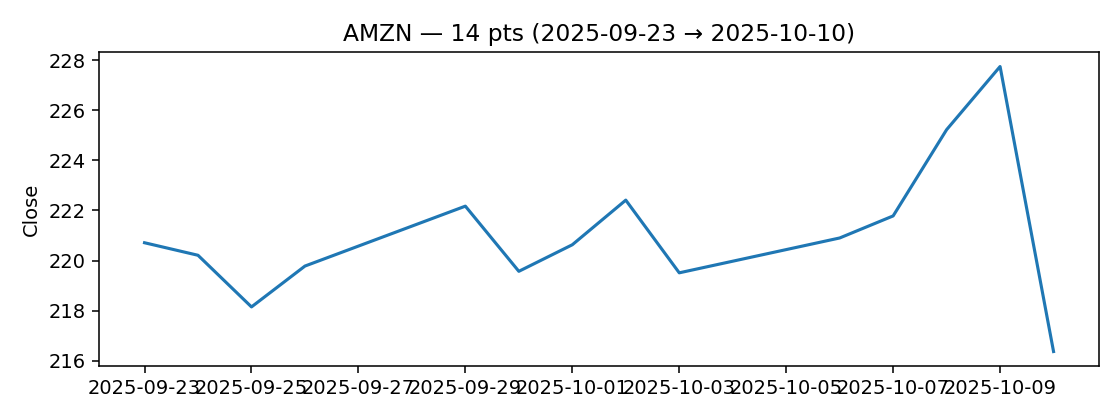
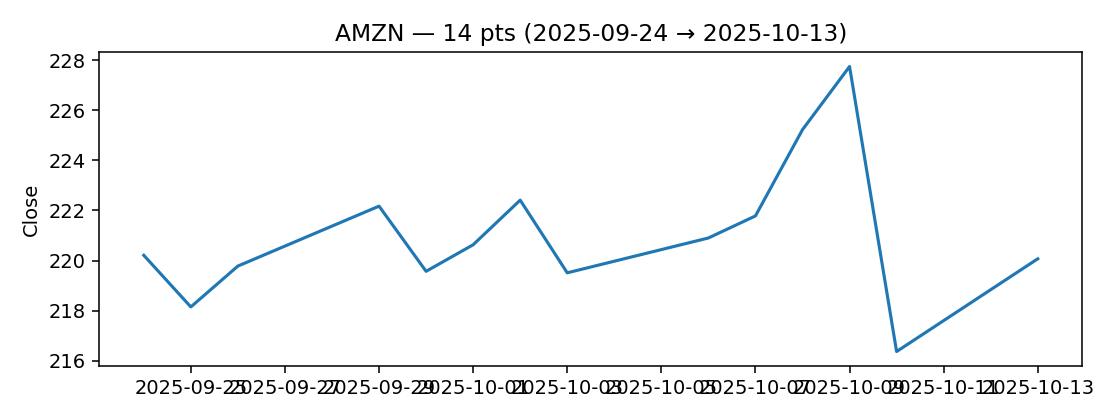
chore: update daily report 2025-10-14 08:31

diff --git a/docs/daily_report.html b/docs/daily_report.html
@@ -108,7 +108,7 @@
   <header>
     <div>
       <h1>Daily Study & News Companion</h1>
-      <div class="sub">2025-10-13 08:09 · TZ: CST</div>
+      <div class="sub">2025-10-14 08:15 · TZ: CST</div>
     </div>
     <button class="btn" id="themeBtn">🌓 Tema</button>
   </header>
@@ -150,11 +150,11 @@
           </div>
           <div class="mkt-body">
             <div class="metrics-row">
-          <div class="kv"><span>Last</span><b>216.37</b></div>
-          <div class="kv"><span>d/d</span><b class="down">-1.97%</b></div>
+          <div class="kv"><span>Last</span><b>220.07</b></div>
+          <div class="kv"><span>d/d</span><b class="down">-0.06%</b></div>
           <div class="kv"><span>Mín</span><b>216.37</b></div>
           <div class="kv"><span>Máx</span><b>227.74</b></div>
-          <div class="kv"><span>σ</span><b>2.72</b></div>
+          <div class="kv"><span>σ</span><b>2.73</b></div>
         </div>
             <div class="chart"><img src="charts/AMZN_close.png" alt="AMZN chart" loading="lazy"/></div>
           </div>
@@ -167,11 +167,11 @@
           </div>
           <div class="mkt-body">
             <div class="metrics-row">
-          <div class="kv"><span>Last</span><b>510.96</b></div>
-          <div class="kv"><span>d/d</span><b class="up">0.34%</b></div>
+          <div class="kv"><span>Last</span><b>514.05</b></div>
+          <div class="kv"><span>d/d</span><b class="up">0.76%</b></div>
           <div class="kv"><span>Mín</span><b>507.03</b></div>
           <div class="kv"><span>Máx</span><b>528.57</b></div>
-          <div class="kv"><span>σ</span><b>6.33</b></div>
+          <div class="kv"><span>σ</span><b>6.04</b></div>
         </div>
             <div class="chart"><img src="charts/MSFT_close.png" alt="MSFT chart" loading="lazy"/></div>
           </div>
@@ -184,11 +184,11 @@
           </div>
           <div class="mkt-body">
             <div class="metrics-row">
-          <div class="kv"><span>Last</span><b>183.16</b></div>
-          <div class="kv"><span>d/d</span><b class="up">2.65%</b></div>
+          <div class="kv"><span>Last</span><b>188.32</b></div>
+          <div class="kv"><span>d/d</span><b class="up">6.41%</b></div>
           <div class="kv"><span>Mín</span><b>176.97</b></div>
           <div class="kv"><span>Máx</span><b>192.57</b></div>
-          <div class="kv"><span>σ</span><b>4.75</b></div>
+          <div class="kv"><span>σ</span><b>4.57</b></div>
         </div>
             <div class="chart"><img src="charts/NVDA_close.png" alt="NVDA chart" loading="lazy"/></div>
           </div>
@@ -201,11 +201,11 @@
           </div>
           <div class="mkt-body">
             <div class="metrics-row">
-          <div class="kv"><span>Last</span><b>413.49</b></div>
-          <div class="kv"><span>d/d</span><b class="down">-2.90%</b></div>
+          <div class="kv"><span>Last</span><b>435.90</b></div>
+          <div class="kv"><span>d/d</span><b class="down">-1.56%</b></div>
           <div class="kv"><span>Mín</span><b>413.49</b></div>
           <div class="kv"><span>Máx</span><b>459.46</b></div>
-          <div class="kv"><span>σ</span><b>11.48</b></div>
+          <div class="kv"><span>σ</span><b>11.06</b></div>
         </div>
             <div class="chart"><img src="charts/TSLA_close.png" alt="TSLA chart" loading="lazy"/></div>
           </div>
@@ -218,8 +218,8 @@
           </div>
           <div class="mkt-body">
             <div class="metrics-row">
-          <div class="kv"><span>Last</span><b>653.02</b></div>
-          <div class="kv"><span>d/d</span><b class="down">-1.54%</b></div>
+          <div class="kv"><span>Last</span><b>663.04</b></div>
+          <div class="kv"><span>d/d</span><b class="up">0.29%</b></div>
           <div class="kv"><span>Mín</span><b>653.02</b></div>
           <div class="kv"><span>Máx</span><b>673.11</b></div>
           <div class="kv"><span>σ</span><b>5.54</b></div>
@@ -250,38 +250,38 @@
             <ul class="news-list">
               <li class="news-item" data-topic="AI">
                 <span class="dot"></span>
-                <a href="https://www.ft.com/content/bdaf9f30-f0a3-4bbc-aca7-86e609335e8a" target="_blank" rel="noreferrer">OpenAI extends chip spending spree with multibillion-dollar Broadcom deal</a>
-                <div class="meta">2025-10-13 13:47 · <span class="src">www.ft.com</span></div>
+                <a href="https://www.bloomberg.com/news/articles/2025-10-14/walmart-partners-with-openai-to-offer-shopping-on-chatgpt" target="_blank" rel="noreferrer">Walmart Partners With OpenAI to Offer Shopping on ChatGPT</a>
+                <div class="meta">2025-10-14 13:15 · <span class="src">Jaewon Kang</span></div>
               </li>
             
               <li class="news-item" data-topic="AI">
                 <span class="dot"></span>
-                <a href="https://www.bloomberg.com/news/videos/2025-10-13/open-ai-broadcom-sign-multiyear-10-gigawatt-chip-pact-video" target="_blank" rel="noreferrer">Open AI, Broadcom Sign Multiyear, 10-Gigawatt Chip Pact</a>
-                <div class="meta">2025-10-13 13:30 · <span class="src">www.bloomberg.com</span></div>
+                <a href="https://www.bloomberg.com/news/articles/2025-10-14/terawulf-floats-3-2-billion-of-junk-bonds-for-ny-data-center" target="_blank" rel="noreferrer">TeraWulf Floats $3.2 Billion of Junk Bonds for New York Data Center</a>
+                <div class="meta">2025-10-14 13:13 · <span class="src">Gowri Gurumurthy, Aaron Weinman</span></div>
               </li>
             
               <li class="news-item" data-topic="AI">
                 <span class="dot"></span>
-                <a href="https://www.bloomberg.com/news/articles/2025-10-13/openai-broadcom-sign-10-gigawatt-pact-for-chips-networking" target="_blank" rel="noreferrer">OpenAI, Broadcom Sign 10-Gigawatt Pact for Chips, Networking</a>
-                <div class="meta">2025-10-13 13:00 · <span class="src">Dina Bass, Shirin Ghaffary</span></div>
+                <a href="https://www.bloomberg.com/news/articles/2025-10-14/asml-s-best-month-in-two-decades-puts-earnings-in-spotlight" target="_blank" rel="noreferrer">ASML’s Best Month in Two Decades Puts Earnings in Spotlight</a>
+                <div class="meta">2025-10-14 09:11 · <span class="src">Henry Ren, Sarah Jacob</span></div>
               </li>
             
               <li class="news-item" data-topic="AI">
                 <span class="dot"></span>
-                <a href="https://www.bloomberg.com/news/articles/2025-10-13/micron-s-newly-converted-bull-sees-50-gain-on-memory-supercycle" target="_blank" rel="noreferrer">Micron’s Newly-Converted Bull Sees 50% Gain on Memory Supercycle</a>
-                <div class="meta">2025-10-13 12:52 · <span class="src">Ryan Vlastelica</span></div>
+                <a href="https://www.bloomberg.com/news/articles/2025-10-14/publicis-raises-growth-outlook-on-strong-ads-and-ai-demand" target="_blank" rel="noreferrer">Publicis Raises Growth Outlook on Strong Ads and AI Demand</a>
+                <div class="meta">2025-10-14 05:30 · <span class="src">Benoit Berthelot</span></div>
               </li>
             
               <li class="news-item" data-topic="AI">
                 <span class="dot"></span>
-                <a href="https://www.bloomberg.com/news/articles/2025-10-13/bloom-energy-shares-soar-on-5-billion-brookfield-ai-partnership" target="_blank" rel="noreferrer">Brookfield’s $5 Billion Deal Spurs Rally in Bloom Energy Shares</a>
-                <div class="meta">2025-10-13 12:14 · <span class="src">Josh Saul</span></div>
+                <a href="https://www.bloomberg.com/news/articles/2025-10-14/uk-lacks-growth-funding-for-critical-sectors-like-quantum-ai" target="_blank" rel="noreferrer">UK Lacks Growth Funding for Critical Sectors Like Quantum, AI</a>
+                <div class="meta">2025-10-14 05:00 · <span class="src">Rose Henderson</span></div>
               </li>
             
               <li class="news-item" data-topic="AI">
                 <span class="dot"></span>
-                <a href="https://www.bloomberg.com/news/articles/2025-10-12/us-futures-jump-as-traders-gauge-china-trade-spat-markets-wrap" target="_blank" rel="noreferrer">Stocks Climb on Trade Hopes and Broadcom’s AI Deal: Markets Wrap</a>
-                <div class="meta">2025-10-12 22:38 · <span class="src">Rita Nazareth</span></div>
+                <a href="https://www.bloomberg.com/news/articles/2025-10-14/europe-aims-for-ai-independence-to-avoid-reliance-on-us-and-china" target="_blank" rel="noreferrer">Europe Fights for AI Independence to Avoid Becoming Tech ‘Colony’</a>
+                <div class="meta">2025-10-14 04:01 · <span class="src">Dina Bass, Rachel Metz, Mark Bergen</span></div>
               </li>
             </ul>
           </div>
@@ -291,38 +291,38 @@
             <ul class="news-list">
               <li class="news-item" data-topic="Fintech">
                 <span class="dot"></span>
-                <a href="https://www.bloomberg.com/news/articles/2025-10-13/nordic-lenders-handelsbanken-and-danske-launch-defense-funds" target="_blank" rel="noreferrer">Nordic Lenders Handelsbanken and Danske Launch Defense Funds</a>
-                <div class="meta">2025-10-13 13:05 · <span class="src">Evelina Youcefi</span></div>
+                <a href="https://www.bloomberg.com/news/videos/2025-10-14/breaking-down-bank-earnings-video" target="_blank" rel="noreferrer">Breaking Down Bank Earnings</a>
+                <div class="meta">2025-10-14 13:33 · <span class="src">www.bloomberg.com</span></div>
               </li>
             
               <li class="news-item" data-topic="Fintech">
                 <span class="dot"></span>
-                <a href="https://www.bloomberg.com/news/videos/2025-10-13/bloomberg-brief-10-13-2025-video" target="_blank" rel="noreferrer">Stocks Bounce Back as Trump Softens China Trade Stance; Trump in Israel | Bloomberg Brief 10/13/2025</a>
-                <div class="meta">2025-10-13 11:33 · <span class="src">www.bloomberg.com</span></div>
+                <a href="https://www.bloomberg.com/news/articles/2025-10-14/goldman-kicks-off-post-earnings-bond-sales-with-five-part-deal" target="_blank" rel="noreferrer">Goldman Kicks Off Post-Earnings Bond Sales with Five-Part Deal</a>
+                <div class="meta">2025-10-14 12:53 · <span class="src">Caleb Mutua</span></div>
               </li>
             
               <li class="news-item" data-topic="Fintech">
                 <span class="dot"></span>
-                <a href="https://www.bloomberg.com/news/articles/2025-10-13/india-inflation-below-rbi-s-target-again-boosting-rate-cut-bets" target="_blank" rel="noreferrer">India Inflation Below RBI Target Again, Boosts Rate Cut Bets</a>
-                <div class="meta">2025-10-13 10:36 · <span class="src">Anup Roy</span></div>
+                <a href="https://www.bloomberg.com/news/articles/2025-10-14/prices-on-wiped-out-credit-suisse-at1s-rise-after-court-ruling" target="_blank" rel="noreferrer">Prices on Wiped Out Credit Suisse AT1s Rise After Court Ruling</a>
+                <div class="meta">2025-10-14 12:13 · <span class="src">Tasos Vossos, Esteban Duarte</span></div>
               </li>
             
               <li class="news-item" data-topic="Fintech">
                 <span class="dot"></span>
-                <a href="https://www.bloomberg.com/news/articles/2025-10-13/china-renaissance-seeks-600-million-for-bnb-crypto-treasury" target="_blank" rel="noreferrer">China Renaissance Seeks $600 Million for BNB Crypto Treasury</a>
-                <div class="meta">2025-10-13 10:06 · <span class="src">Haze Fan, Muyao Shen, Suvashree Ghosh</span></div>
+                <a href="https://www.bloomberg.com/news/articles/2025-10-14/credit-suisse-at1-writedown-revoked-in-partial-win-for-investors" target="_blank" rel="noreferrer">Credit Suisse AT1 Writedown Revoked in Partial Investor Win</a>
+                <div class="meta">2025-10-14 11:02 · <span class="src">Hugo Miller, Tasos Vossos, Esteban Duarte</span></div>
               </li>
             
               <li class="news-item" data-topic="Fintech">
                 <span class="dot"></span>
-                <a href="https://www.ft.com/content/3f6b6126-06d6-4b31-b907-30d25c8c7236" target="_blank" rel="noreferrer">UK’s Wayve in talks with SoftBank and Microsoft for $2bn fundraise</a>
-                <div class="meta">2025-10-13 10:00 · <span class="src">www.ft.com</span></div>
+                <a href="https://www.bloomberg.com/news/articles/2025-10-14/italy-said-to-seek-5-billion-contribution-from-banks-to-budget" target="_blank" rel="noreferrer">Italy Seeks €5 Billion Contribution From Banks to Budget</a>
+                <div class="meta">2025-10-14 09:42 · <span class="src">Sonia Sirletti, Chiara Albanese</span></div>
               </li>
             
               <li class="news-item" data-topic="Fintech">
                 <span class="dot"></span>
-                <a href="https://www.bloomberg.com/news/articles/2025-10-13/rupee-s-calm-fuels-speculation-of-rbi-returning-to-old-playbook" target="_blank" rel="noreferrer">Rupee’s Unusual Calm Fuels Speculation of Tightening RBI Grip</a>
-                <div class="meta">2025-10-13 09:00 · <span class="src">Subhadip Sircar</span></div>
+                <a href="https://www.bloomberg.com/news/articles/2025-10-14/china-puts-export-controls-on-nexperia-after-dutch-takeover" target="_blank" rel="noreferrer">China Puts Export Controls on Nexperia After Dutch Takeover</a>
+                <div class="meta">2025-10-14 08:40 · <span class="src">Sarah Jacob</span></div>
               </li>
             </ul>
           </div>
@@ -332,38 +332,38 @@
             <ul class="news-list">
               <li class="news-item" data-topic="General">
                 <span class="dot"></span>
-                <a href="https://www.bloomberg.com/news/articles/2025-10-13/hk-s-best-known-activist-investor-to-shutter-influential-website" target="_blank" rel="noreferrer">Hong Kong’s Best Known Activist Investor to Shutter Influential Website</a>
-                <div class="meta">2025-10-13 13:54 · <span class="src">Richard Frost</span></div>
+                <a href="https://www.bloomberg.com/news/videos/2025-10-14/fed-signaling-more-cuts-is-crazy-town-says-lisa-shalett" target="_blank" rel="noreferrer">Fed Signaling More Cuts Is ‘Crazy Town’: Lisa Shalett</a>
+                <div class="meta">2025-10-14 13:46 · <span class="src">www.bloomberg.com</span></div>
               </li>
             
               <li class="news-item" data-topic="General">
                 <span class="dot"></span>
-                <a href="https://www.bloomberg.com/news/articles/2025-10-13/petrobras-to-raise-production-at-leading-offshore-oil-field-tupi" target="_blank" rel="noreferrer">Petrobras to Raise Production at Leading Offshore Oil Field Tupi</a>
-                <div class="meta">2025-10-13 13:22 · <span class="src">Peter Millard</span></div>
+                <a href="https://www.bloomberg.com/news/articles/2025-10-14/distortions-hit-equity-funding-dividend-curve-as-rilas-boom" target="_blank" rel="noreferrer">Distortions Hit Equity Funding, Dividend Curve as ‘RILAs’ Boom</a>
+                <div class="meta">2025-10-14 13:06 · <span class="src">Yiqin Shen, Lu Wang</span></div>
               </li>
             
               <li class="news-item" data-topic="General">
                 <span class="dot"></span>
-                <a href="https://www.bloomberg.com/news/articles/2025-10-13/australian-pensions-fall-short-on-retirement-guidance-asic-says" target="_blank" rel="noreferrer">Australian Pensions Fall Short on Retirement Guidance, ASIC Says</a>
-                <div class="meta">2025-10-13 13:01 · <span class="src">Richard Henderson</span></div>
+                <a href="https://www.bloomberg.com/news/articles/2025-10-14/eu-s-dombrovskis-says-china-is-flexing-its-muscles-on-trade" target="_blank" rel="noreferrer">EU’s Dombrovskis Says China Is Flexing Its Muscles on Trade</a>
+                <div class="meta">2025-10-14 13:05 · <span class="src">Alessandra Migliaccio</span></div>
               </li>
             
               <li class="news-item" data-topic="General">
                 <span class="dot"></span>
-                <a href="https://www.bloomberg.com/news/articles/2025-10-13/opec-keeps-oil-outlook-unchanged-after-big-september-output-hike" target="_blank" rel="noreferrer">OPEC Keeps Oil Outlook Unchanged as Supply Boost Continues</a>
-                <div class="meta">2025-10-13 12:04 · <span class="src">Bill Lehane</span></div>
+                <a href="https://www.bloomberg.com/news/articles/2025-10-14/two-major-us-lumber-manufacturers-agree-on-7-1-billion-merger" target="_blank" rel="noreferrer">US Lumber Giants Agree to Combine in $7.1 Billion Deal</a>
+                <div class="meta">2025-10-14 10:54 · <span class="src">James Herron</span></div>
               </li>
             
               <li class="news-item" data-topic="General">
                 <span class="dot"></span>
-                <a href="https://www.bloomberg.com/news/articles/2025-10-13/carmakers-face-mass-uk-trial-a-decade-after-dieselgate-scandal" target="_blank" rel="noreferrer">Carmakers Face UK Trial a Decade After Dieselgate Scandal</a>
-                <div class="meta">2025-10-13 11:47 · <span class="src">Upmanyu Trivedi</span></div>
+                <a href="https://www.bloomberg.com/news/articles/2025-10-14/european-stocks-drop-on-renewed-us-china-tariffs-concerns" target="_blank" rel="noreferrer">European Stocks Drop on Renewed US-China Tariff Concerns</a>
+                <div class="meta">2025-10-14 07:16 · <span class="src">Macarena Munoz Montijano</span></div>
               </li>
             
               <li class="news-item" data-topic="General">
                 <span class="dot"></span>
-                <a href="https://www.bloomberg.com/news/articles/2025-10-13/oracle-event-is-chance-to-show-370-billion-stock-rally-has-legs" target="_blank" rel="noreferrer">Oracle Event Is Chance to Show $400 Billion Stock Rally Has Legs</a>
-                <div class="meta">2025-10-13 10:35 · <span class="src">Ryan Vlastelica</span></div>
+                <a href="https://www.bloomberg.com/news/articles/2025-10-13/stock-market-today-dow-s-p-live-updates" target="_blank" rel="noreferrer">Stocks Fall as Trade Tensions Spur Dash for Safety: Markets Wrap</a>
+                <div class="meta">2025-10-13 22:27 · <span class="src">Rita Nazareth</span></div>
               </li>
             </ul>
           </div>
@@ -373,38 +373,38 @@
             <ul class="news-list">
               <li class="news-item" data-topic="Machine Learning">
                 <span class="dot"></span>
-                <a href="https://www.bloomberg.com/news/articles/2025-10-13/crypto-s-biggest-crash-reveals-a-market-littered-with-pitfalls" target="_blank" rel="noreferrer">Crypto’s Biggest Crash Reveals a Market Littered With Pitfalls</a>
-                <div class="meta">2025-10-13 13:26 · <span class="src">Suvashree Ghosh</span></div>
+                <a href="https://www.bloomberg.com/news/articles/2025-10-14/gunvor-ceo-says-oil-market-oversupply-is-finally-emerging" target="_blank" rel="noreferrer">Gunvor CEO Says Oil Market Oversupply Is Finally Emerging</a>
+                <div class="meta">2025-10-14 13:34 · <span class="src">Archie Hunter, Jack Farchy</span></div>
               </li>
             
               <li class="news-item" data-topic="Machine Learning">
                 <span class="dot"></span>
-                <a href="https://www.bloomberg.com/news/videos/2025-10-13/trump-hails-dawn-of-a-new-middle-east" target="_blank" rel="noreferrer">Trump Hails ‘Dawn of a New Middle East’</a>
-                <div class="meta">2025-10-13 11:52 · <span class="src">www.bloomberg.com</span></div>
+                <a href="https://www.bloomberg.com/news/articles/2025-10-14/imf-warns-of-dim-outlook-for-world-economy-hit-by-rolling-shocks" target="_blank" rel="noreferrer">IMF Warns of Dim Outlook for World Economy Hit by Rolling Shocks</a>
+                <div class="meta">2025-10-14 13:00 · <span class="src">Enda Curran</span></div>
               </li>
             
               <li class="news-item" data-topic="Machine Learning">
                 <span class="dot"></span>
-                <a href="https://www.bloomberg.com/news/newsletters/2025-10-13/the-pope-urges-vigilance-about-who-controls-ai" target="_blank" rel="noreferrer">The Pope Urges Vigilance About Who Controls AI</a>
-                <div class="meta">2025-10-13 11:02 · <span class="src">Austin Carr</span></div>
+                <a href="https://www.bloomberg.com/news/videos/2025-10-14/citigroup-beats-3q-estimates-across-every-division-video" target="_blank" rel="noreferrer">Citigroup Beats Revenue Estimates Across Every Division</a>
+                <div class="meta">2025-10-14 12:54 · <span class="src">www.bloomberg.com</span></div>
               </li>
             
               <li class="news-item" data-topic="Machine Learning">
                 <span class="dot"></span>
-                <a href="https://www.bloomberg.com/news/articles/2025-10-13/chile-s-budget-forecast-shows-failure-of-belt-tightening-program" target="_blank" rel="noreferrer">Chile’s Budget Forecast Shows Failure of Belt-Tightening Program</a>
-                <div class="meta">2025-10-13 11:00 · <span class="src">Carolina Gonzalez</span></div>
+                <a href="https://www.bloomberg.com/news/videos/2025-10-14/ixm-ceo-ives-copper-may-end-2025-close-to-12-000-video" target="_blank" rel="noreferrer">IXM CEO Ives: Copper May End 2025 Close to $12,000</a>
+                <div class="meta">2025-10-14 12:39 · <span class="src">www.bloomberg.com</span></div>
               </li>
             
               <li class="news-item" data-topic="Machine Learning">
                 <span class="dot"></span>
-                <a href="https://www.bloomberg.com/news/articles/2025-10-12/silver-extends-gains-on-short-squeeze-as-gold-rallies-to-record" target="_blank" rel="noreferrer">Silver Roars Higher as Short Squeeze Rocks the London Market</a>
-                <div class="meta">2025-10-12 23:33 · <span class="src">Sybilla Gross, Mark Burton</span></div>
+                <a href="https://www.bloomberg.com/news/articles/2025-10-14/blackrock-hauls-in-205-billion-as-private-assets-accelerate" target="_blank" rel="noreferrer">BlackRock Hauls in $205 Billion as Private Assets Accelerate</a>
+                <div class="meta">2025-10-14 10:02 · <span class="src">Silla Brush</span></div>
               </li>
             
               <li class="news-item" data-topic="Machine Learning">
                 <span class="dot"></span>
-                <a href="https://www.bloomberg.com/news/articles/2025-10-12/ai-brings-korea-s-struggling-film-industry-hopes-and-anxiety" target="_blank" rel="noreferrer">AI Brings Korea’s Struggling Film Industry Hopes and Anxiety</a>
-                <div class="meta">2025-10-12 22:00 · <span class="src">Sohee Kim</span></div>
+                <a href="https://www.bloomberg.com/news/articles/2025-10-13/silver-surges-to-all-time-high-above-52-50-an-ounce" target="_blank" rel="noreferrer">Silver Falls as London Market Squeeze Shows Some Signs of Easing</a>
+                <div class="meta">2025-10-13 22:02 · <span class="src">Sybilla Gross, Mark Burton, Jack Ryan</span></div>
               </li>
             </ul>
           </div>
@@ -414,7 +414,7 @@
     </main>
   </div>
 
-  <footer>Generado localmente · 2025-10-13 08:09</footer>
+  <footer>Generado localmente · 2025-10-14 08:15</footer>
 
   <script>
     'use strict';
